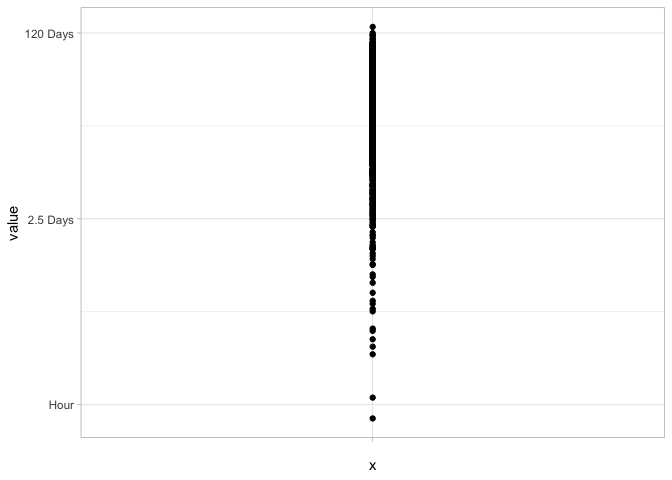
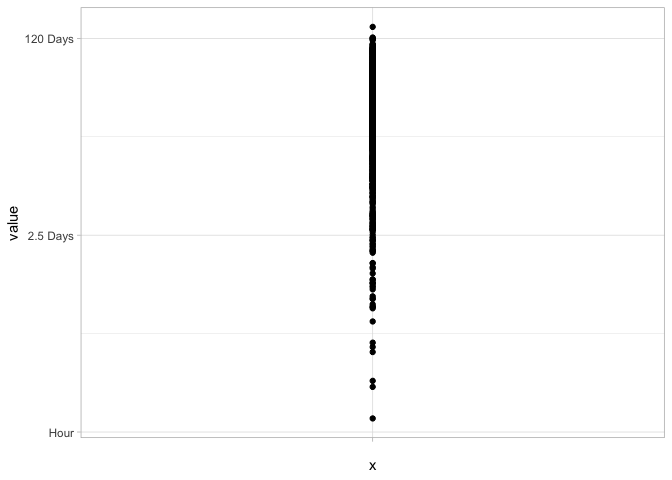
refactor

diff --git a/examples/examples.md b/examples/examples.md
@@ -1,4 +1,3 @@
--   [Packages](#packages)
 -   [Data Cleaning](#data-cleaning)
     -   [General](#general)
         -   [`clean_names()`](#clean_names)
@@ -43,16 +42,6 @@
     -   [Singular Value Decomposition
         (PCA)](#singular-value-decomposition-pca)
     -   [Logistic Regression](#logistic-regression)
-
-Packages
-========
-
-``` r
-library(tidyverse)
-library(janitor)
-library(ggplot2)
-library(tidytext)
-```
 
 Data Cleaning
 =============
@@ -115,13 +104,6 @@ In this example, we will create categories and add them to our
 data.frame based on regex.
 
 ``` r
-#install.packages('fuzzyjoin')
-library(fuzzyjoin)
-
-cetaceans_raw <- read_csv('https://raw.githubusercontent.com/rfordatascience/tidytuesday/master/data/2018/2018-12-18/allCetaceanData.csv') %>% 
-    select(-X1) %>%
-    mutate(birthYear = as.numeric(birthYear))
-cetaceans <- cetaceans_raw %>% select(species, originLocation)
 head(cetaceans)
 ```
 
@@ -136,6 +118,9 @@ head(cetaceans)
     ## 6 Bottlenose SeaWorld San Diego
 
 ``` r
+#install.packages('fuzzyjoin')
+library(fuzzyjoin)
+
 regexes <- tribble(
   ~ regex, ~ category,
   "Unknown", "Unknown",
@@ -600,7 +585,7 @@ mtcars %>% with_data(.x=mean(cyl) * 10)
 
     ## <quosure>
     ## expr: ^mean(cyl) * 10
-    ## env:  0x7f8215e319a0
+    ## env:  0x7fe1b9bc4d80
 
     ## [1] 61.875
 
@@ -736,6 +721,7 @@ iris_gathered %>%
     * this works when viewing time (in seconds)
 
 ``` r
+set.seed(1)
 data.frame(value = abs(rnorm(1000, sd = (60^4) / 3))) %>%
 ggplot(aes(x='', y=value)) +
     geom_point() +
@@ -860,11 +846,10 @@ Example from David Robinson Tidy-Tuesday Screencast
 (<a href="https://youtu.be/em4FXPf4H-Y?t=1783" class="uri">https://youtu.be/em4FXPf4H-Y?t=1783</a>)
 
 ``` r
-restaurant_inspections_by_dba <- readRDS('data/restaurant_inspections_by_dba.RDS')
-head(restaurant_inspections_by_dba, 109)
+head(restaurant_inspections_by_dba, 10)
 ```
 
-    ## # A tibble: 109 x 5
+    ## # A tibble: 10 x 5
     ##    dba                 cuisine                  locations avg_score median_score
     ##    <chr>               <chr>                        <int>     <dbl>        <dbl>
     ##  1 DUNKIN'             Donuts                         340      9.07          8.5
@@ -876,8 +861,7 @@ head(restaurant_inspections_by_dba, 109)
     ##  7 MCDONALD'S          American                        60      9.33          9  
     ##  8 BURGER KING         Hamburgers                      58     10.9          10  
     ##  9 SUBWAY              Sandwiches/Salads/Mixed…        54     11.3           7.5
-    ## 10 KENNEDY FRIED CHIC… Chicken                         51     15.8          13  
-    ## # … with 99 more rows
+    ## 10 KENNEDY FRIED CHIC… Chicken                         51     15.8          13
 
 `nest(data=-cuisine)` groups by cuisine and creates a data-frame
 (tibble) out of all of the rest of the columns. That is, it `nests` the
@@ -1694,8 +1678,6 @@ Tidy Text
 ---------
 
 ``` r
-mr_boston <- read_csv('https://raw.githubusercontent.com/rfordatascience/tidytuesday/master/data/2020/2020-05-26/boston_cocktails.csv')
-
 head(mr_boston)
 ```
 
@@ -1923,10 +1905,6 @@ Logistic Regression
 -------------------
 
 ``` r
-beer_awards <- read_csv('https://raw.githubusercontent.com/rfordatascience/tidytuesday/master/data/2020/2020-10-20/beer_awards.csv') %>%
-  mutate(state = str_to_upper(state),
-         medal = fct_relevel(medal, c("Bronze", "Silver")))
-
 head(beer_awards)
 ```
 
